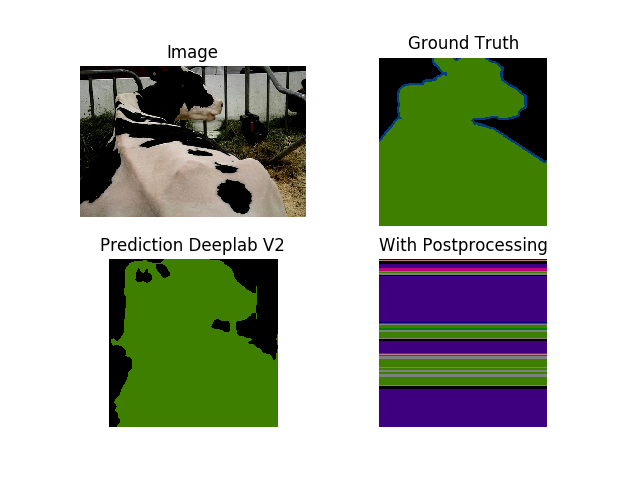
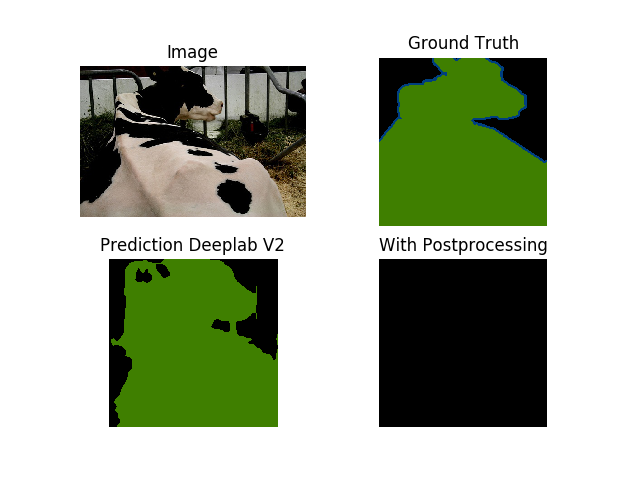
Patricks Output

Changed region(s): [[0.5938, 0.5312, 0.875, 0.9062]]

diff --git a/LoadAndVisualizeTensorTest.py b/LoadAndVisualizeTensorTest.py
@@ -68,7 +68,7 @@ image = np.asarray(image[0].numpy()[:size[0],:size[1]], dtype=np.int)
 image = image.transpose(1,2,0)
 pred1 = torch.load('/root/VOC12_After_Deeplab_Test/prediction' + str(args.index) + '.pth', map_location='cpu')
 pred1 = changeOutput(pred1)
-pred2 = torch.load('/root/VOC12_After_b14/TrainBatch3TensorsGPUTest/predictions' + str(args.index) + '.pth', map_location='cpu') #change to new one!!!
+pred2 = torch.load('/root/VOC12_After_b12/TrainBatch3TensorsGPUTest/predictions' + str(args.index) + '.pth', map_location='cpu') #change to new one!!!
 pred2 = changeOutput(pred2)
 
 img = plt.imread('/root/VOCdevkit/VOC2012/JPEGImages/' + str(batch[3][0]) + '.jpg')
